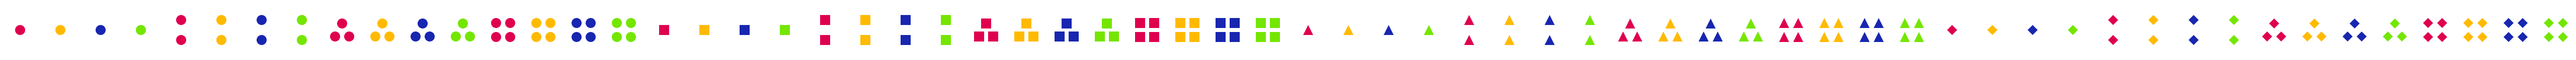
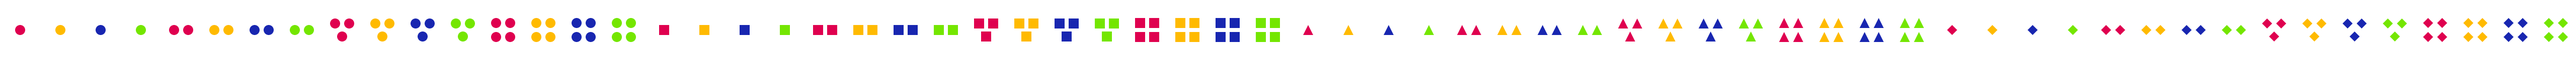
Made bqtau cards look more different from 3tau cards.

diff --git a/static/styles.css b/static/styles.css
@@ -223,7 +223,7 @@ table {
 }
 
 .booleanTau {
-  background:url('/static/bqcards.png?v=1') no-repeat scroll 0 0 white;
+  background:url('/static/bqcards.png?v=2') no-repeat scroll 0 0 white;
 }
 
 .selectedCard {

diff --git a/java/BQSpriteGenerator.java b/java/BQSpriteGenerator.java
@@ -66,27 +66,20 @@ public class BQSpriteGenerator {
       ys = new int[] { yBase + height / 2 };
     } else if (number == 1) {
       xs = new int[] {
-        xBase + width / 2,
-              xBase + width / 2 };
+        xBase + width / 3,
+        xBase + width - width / 3 };
       ys = new int[] {
-        yBase + height - height / 3,
-              yBase + height / 3 };
-      if (!LARGE) {
-        ys[1] += 1;
-        ys[0] -= 1;
-      }
+        yBase + height / 2,
+        yBase + height / 2 };
     } else if (number == 2) {
       xs = new int[] {
         xBase + width / 3,
               xBase + width / 2,
               xBase + width - width / 3 };
       ys = new int[] {
-        yBase + height / 2 + width / 6,
-              yBase + height / 2 - width / 6,
-              yBase + height / 2 + width / 6 };
-      if (!LARGE) {
-        ys[1] -= 1;
-      }
+        yBase + height / 2 - width / 6,
+              yBase + height / 2 + width / 6,
+              yBase + height / 2 - width / 6 };
     } else {
       xs = new int[] {
         xBase + width / 3,
@@ -98,9 +91,6 @@ public class BQSpriteGenerator {
         yBase + height/2 + (width+5) / 6,
         yBase + height/2 - (width+5) / 6,
         yBase + height/2 + (width+5) / 6 };
-      if (!LARGE) {
-        throw new RuntimeException("Don't know how to draw small BQ cards.");
-      }
     }
 
     List<Shape> shapes = new ArrayList<Shape>();
